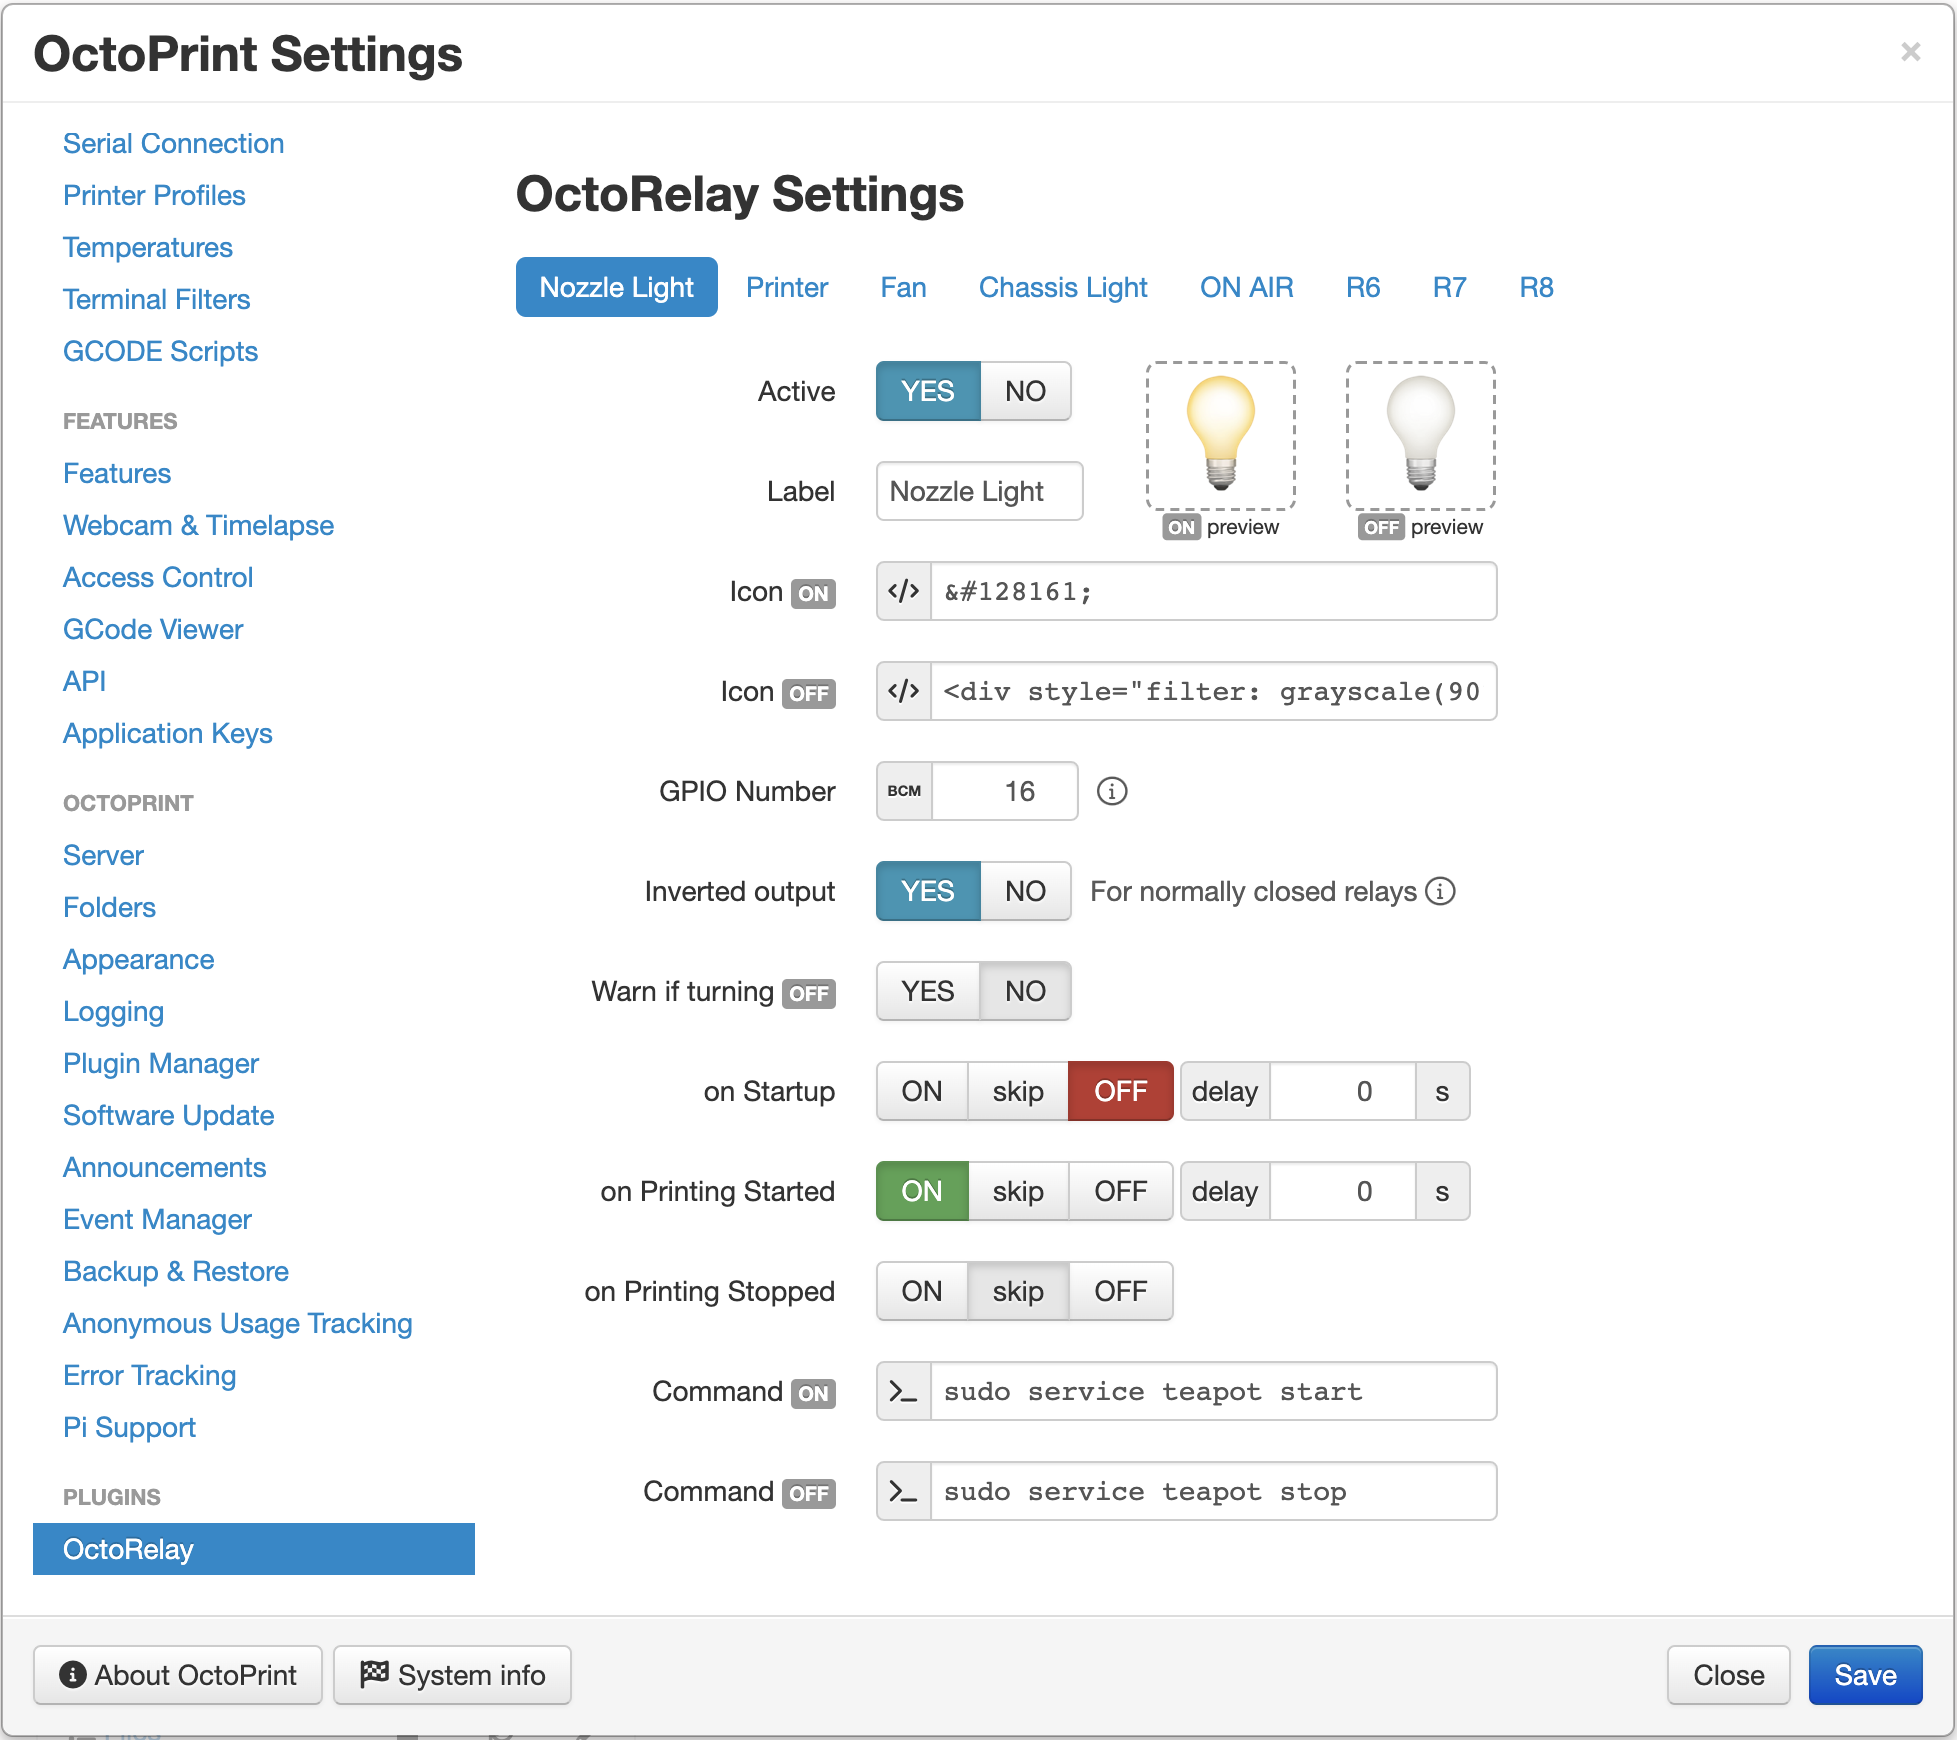
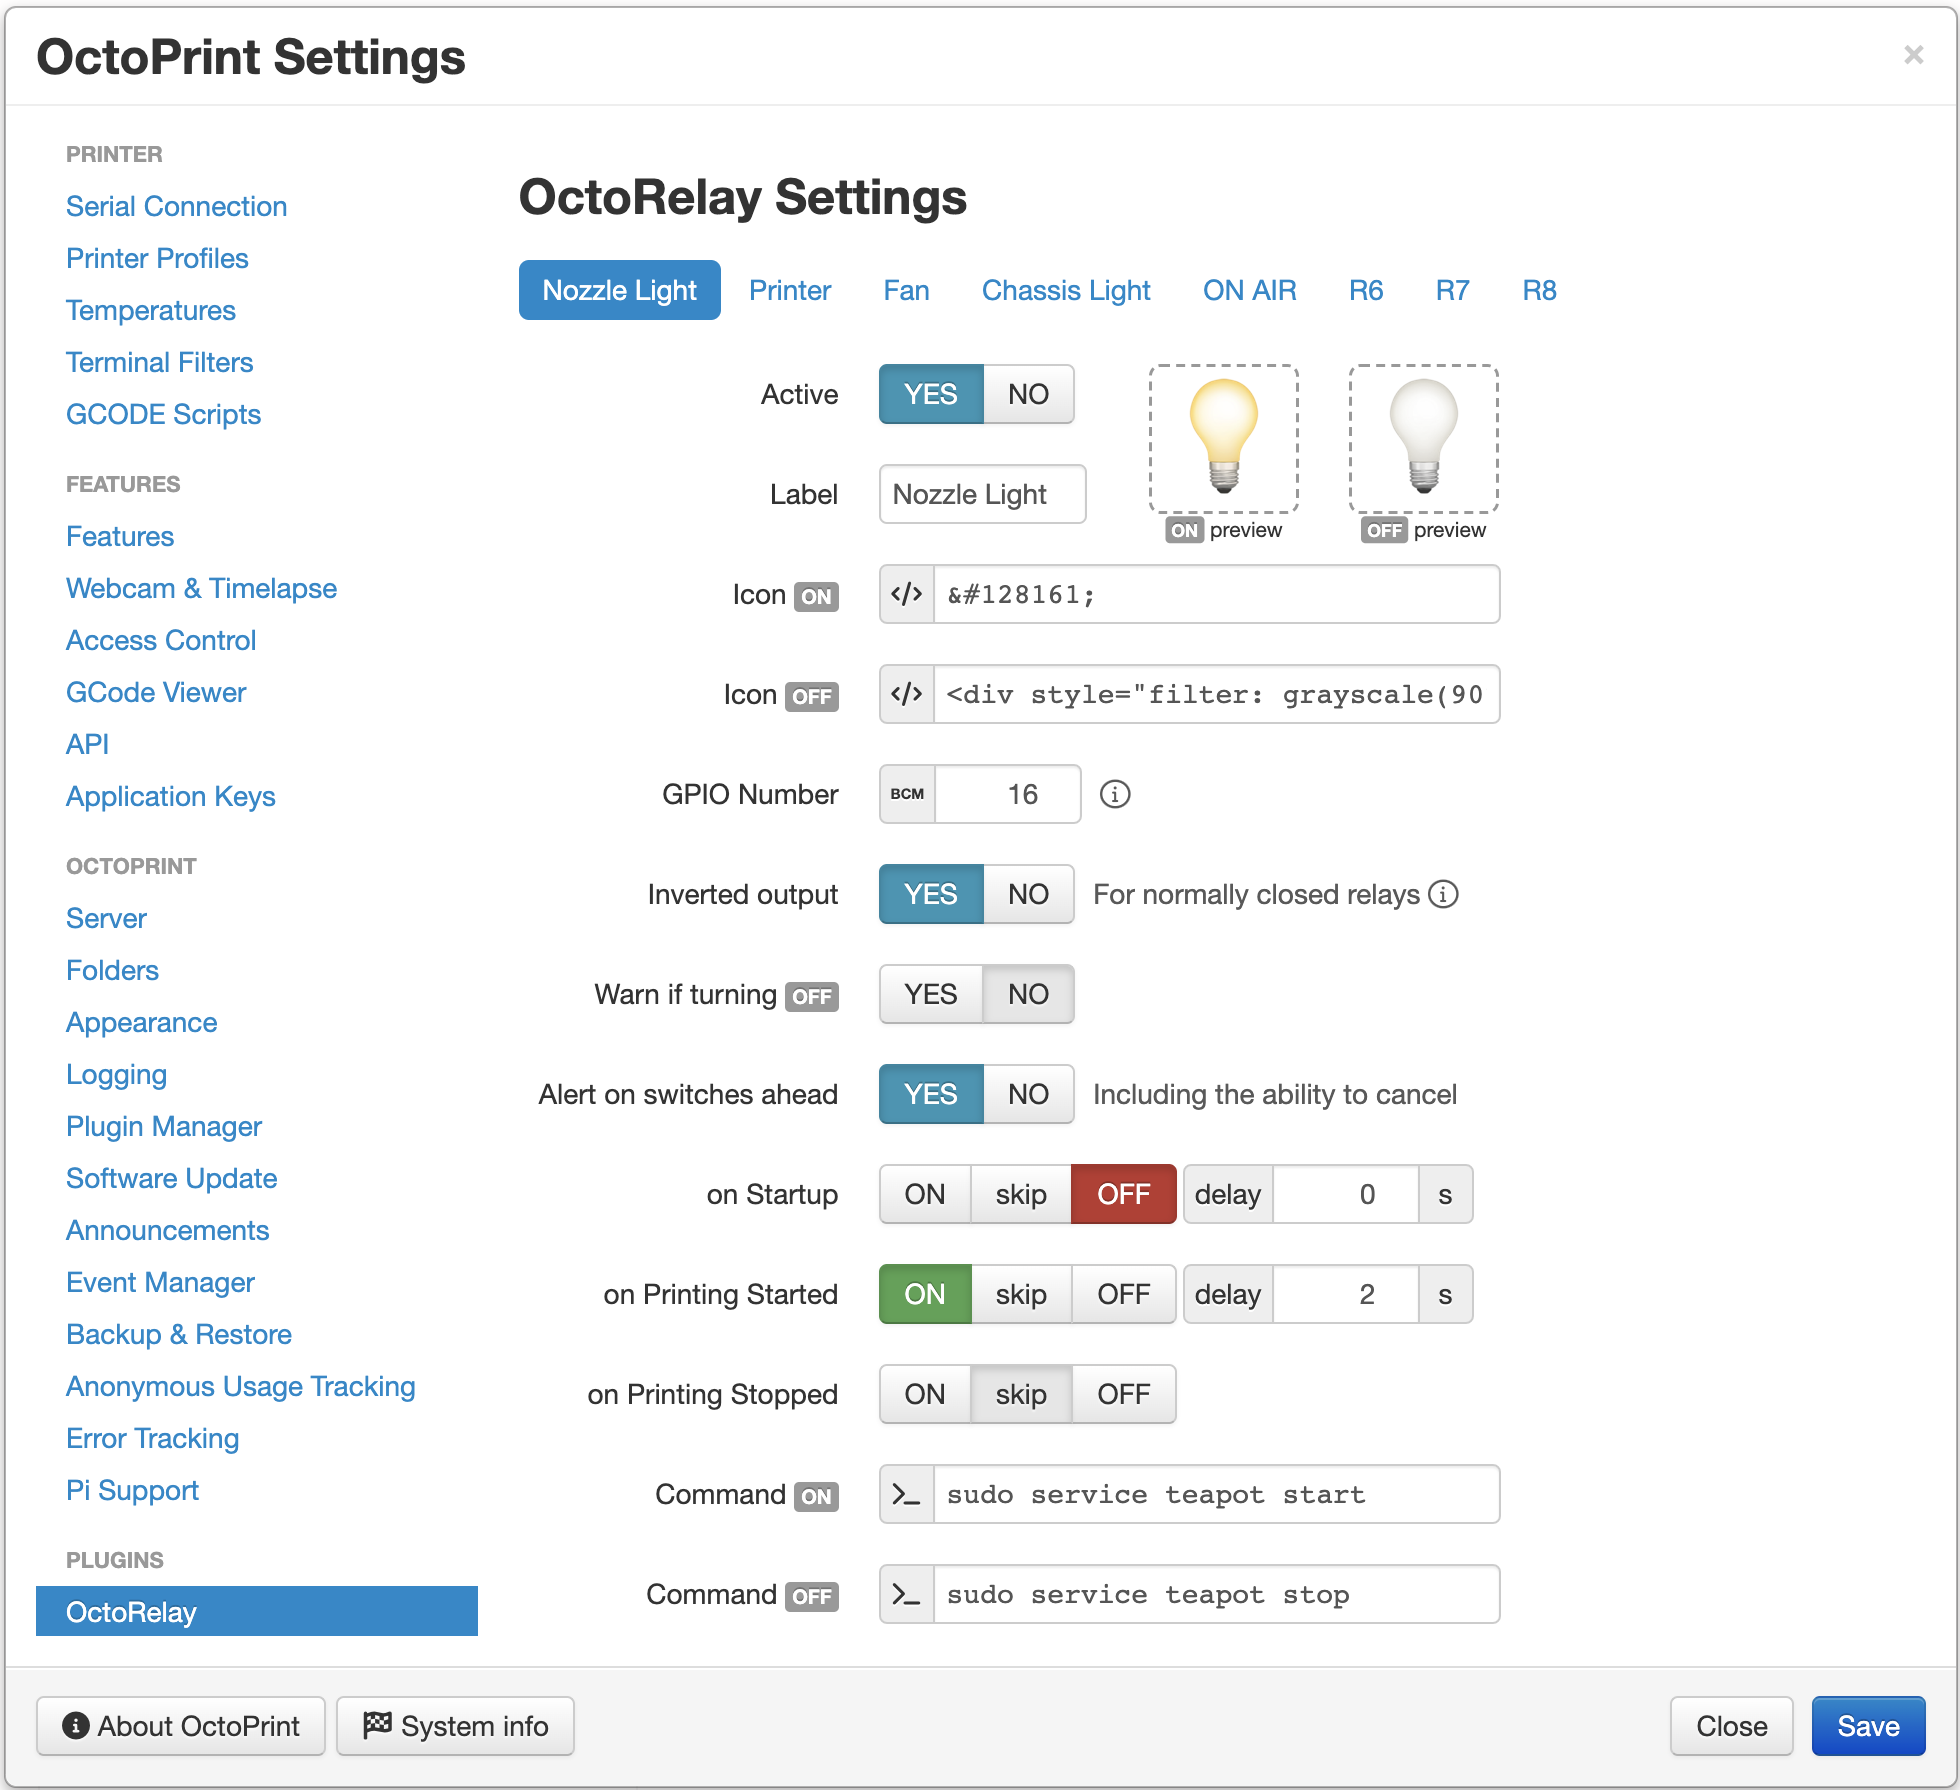
Readme: updating illustration and listing the new setting.

diff --git a/README.md b/README.md
@@ -47,22 +47,23 @@ After installing the plugin you need to configure it in order to see the control
 Currently, OctoRelay supports up to 8 relays represented by the tabs on the top of the settings screen.
 Each relay has the following settings *(in order of appearance)*:
 
-| Setting             | Description                                                |
-|---------------------|------------------------------------------------------------|
-| Active              | Activates the relay and its control on the navigation bar  |
-| Label               | The HTML title of the icon in the navigation bar (hint)    |
-| Icon *(ON/OFF)*     | An HTML tag or emoji to display on the navigation bar      |
-| GPIO Number         | The GPIO pin on the Raspberry Pi *(see the picture above)* |
-| Inverted output     | For normally closed relay: the relay is ON without power   |
-| Warn if turning OFF | Enables a confirmation dialog when turning the relay OFF   |
-| **Events:**         | Behavior customization (automation)                        |
-| on Startup          | The state to switch the relay to when OctoPrint started    |
-| on Printing Started | The state to switch the relay to when started printing     |
-| on Printing Stopped | The state to switch the relay to when stopped printing     |
-| skip *(option)*     | No action should be taken                                  |                                 |
-| delay               | Postpones the action for the time specified in seconds     |
-| **Side effects:**   | Additional actions in certain cases                        |
-| Command *(ON/OFF)*  | An optional OS command to run when toggling the relay      |
+| Setting                 | Description                                                |
+|-------------------------|------------------------------------------------------------|
+| Active                  | Activates the relay and its control on the navigation bar  |
+| Label                   | The HTML title of the icon in the navigation bar (hint)    |
+| Icon *(ON/OFF)*         | An HTML tag or emoji to display on the navigation bar      |
+| GPIO Number             | The GPIO pin on the Raspberry Pi *(see the picture above)* |
+| Inverted output         | For normally closed relay: the relay is ON without power   |
+| Warn if turning OFF     | Enables a confirmation dialog when turning the relay OFF   |
+| Alert on switches ahead | Notifies on upcoming switch with an ability to cancel it   |
+| **Events:**             | Behavior customization (automation)                        |
+| on Startup              | The state to switch the relay to when OctoPrint started    |
+| on Printing Started     | The state to switch the relay to when started printing     |
+| on Printing Stopped     | The state to switch the relay to when stopped printing     |
+| skip *(option)*         | No action should be taken                                  |                                 |
+| delay                   | Postpones the action for the time specified in seconds     |
+| **Side effects:**       | Additional actions in certain cases                        |
+| Command *(ON/OFF)*      | An optional OS command to run when toggling the relay      |
 
 ## Operation
 
